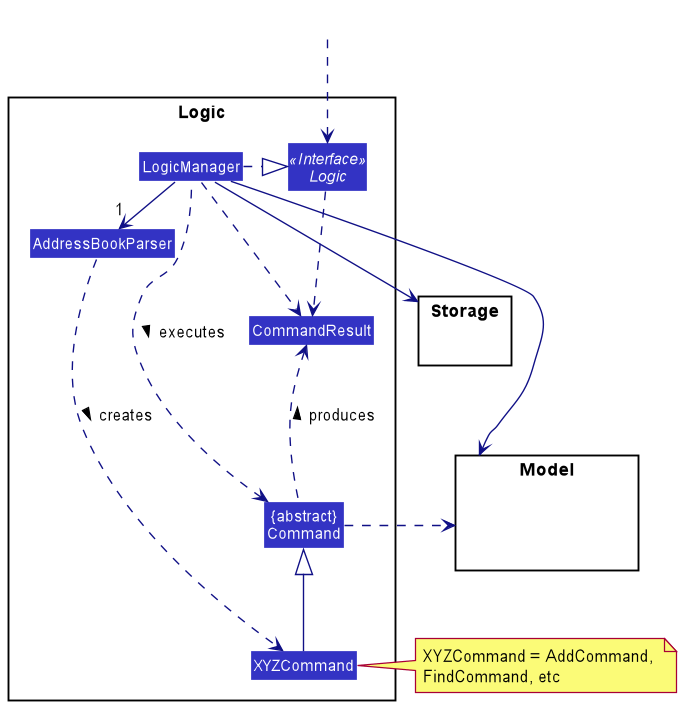
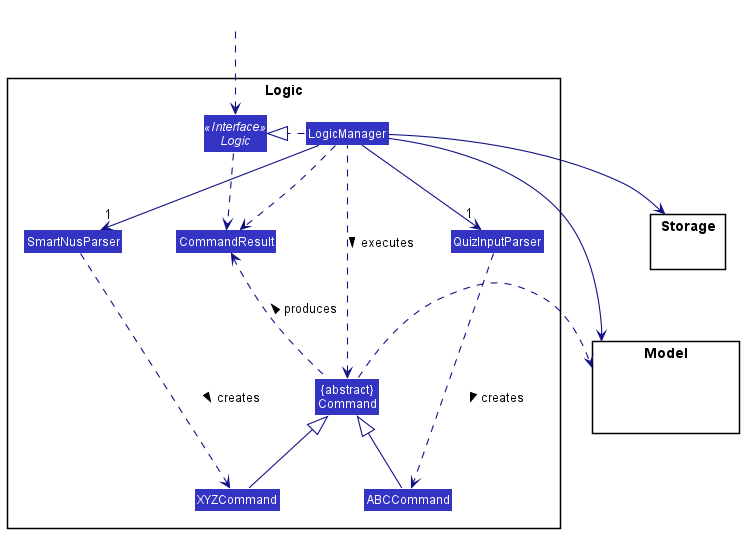
Update Logic Diagram and description

diff --git a/docs/DeveloperGuide.md b/docs/DeveloperGuide.md
@@ -94,8 +94,8 @@ Here's a (partial) class diagram of the `Logic` component:
 
 How the `Logic` component works:
 1. When `Logic` is called upon to execute a command, it uses either the `SmartNusParser` or the `QuizInputParser` class to parse the user command, depending on which window the user is currently on (i.e. Main Window or Quiz Window).
-1. This results in a `Command` object (more precisely, an object of one of its subclasses e.g., `AddCommand`) which is executed by the `LogicManager`.
-1. The command can communicate with the `Model` when it is executed (e.g. to add a question).
+1. This results in a `Command` object (more precisely, an object of one of its subclasses, `ABCCommand` or `XYZCommand`, which are placeholders for Commands created by `SmartNusParser` and `QuizInputParser` respectively e.g. `AddMcqCommand` created by `SmartNusParser` is a `XYZCommand`, while `AnswerMcqCommand` created by `QuizInputParser` is a `ABCCommand`) which is executed by the `LogicManager`.
+1. The command can communicate with the `Model` when it is executed (e.g. to add a question for `AddMcqCommand`).
 1. The result of the command execution is encapsulated as a `CommandResult` object which is then returned from `Logic`.
 
 The Sequence Diagram below illustrates the interactions within the `Logic` component for the `execute("delete question 1")` API call.
